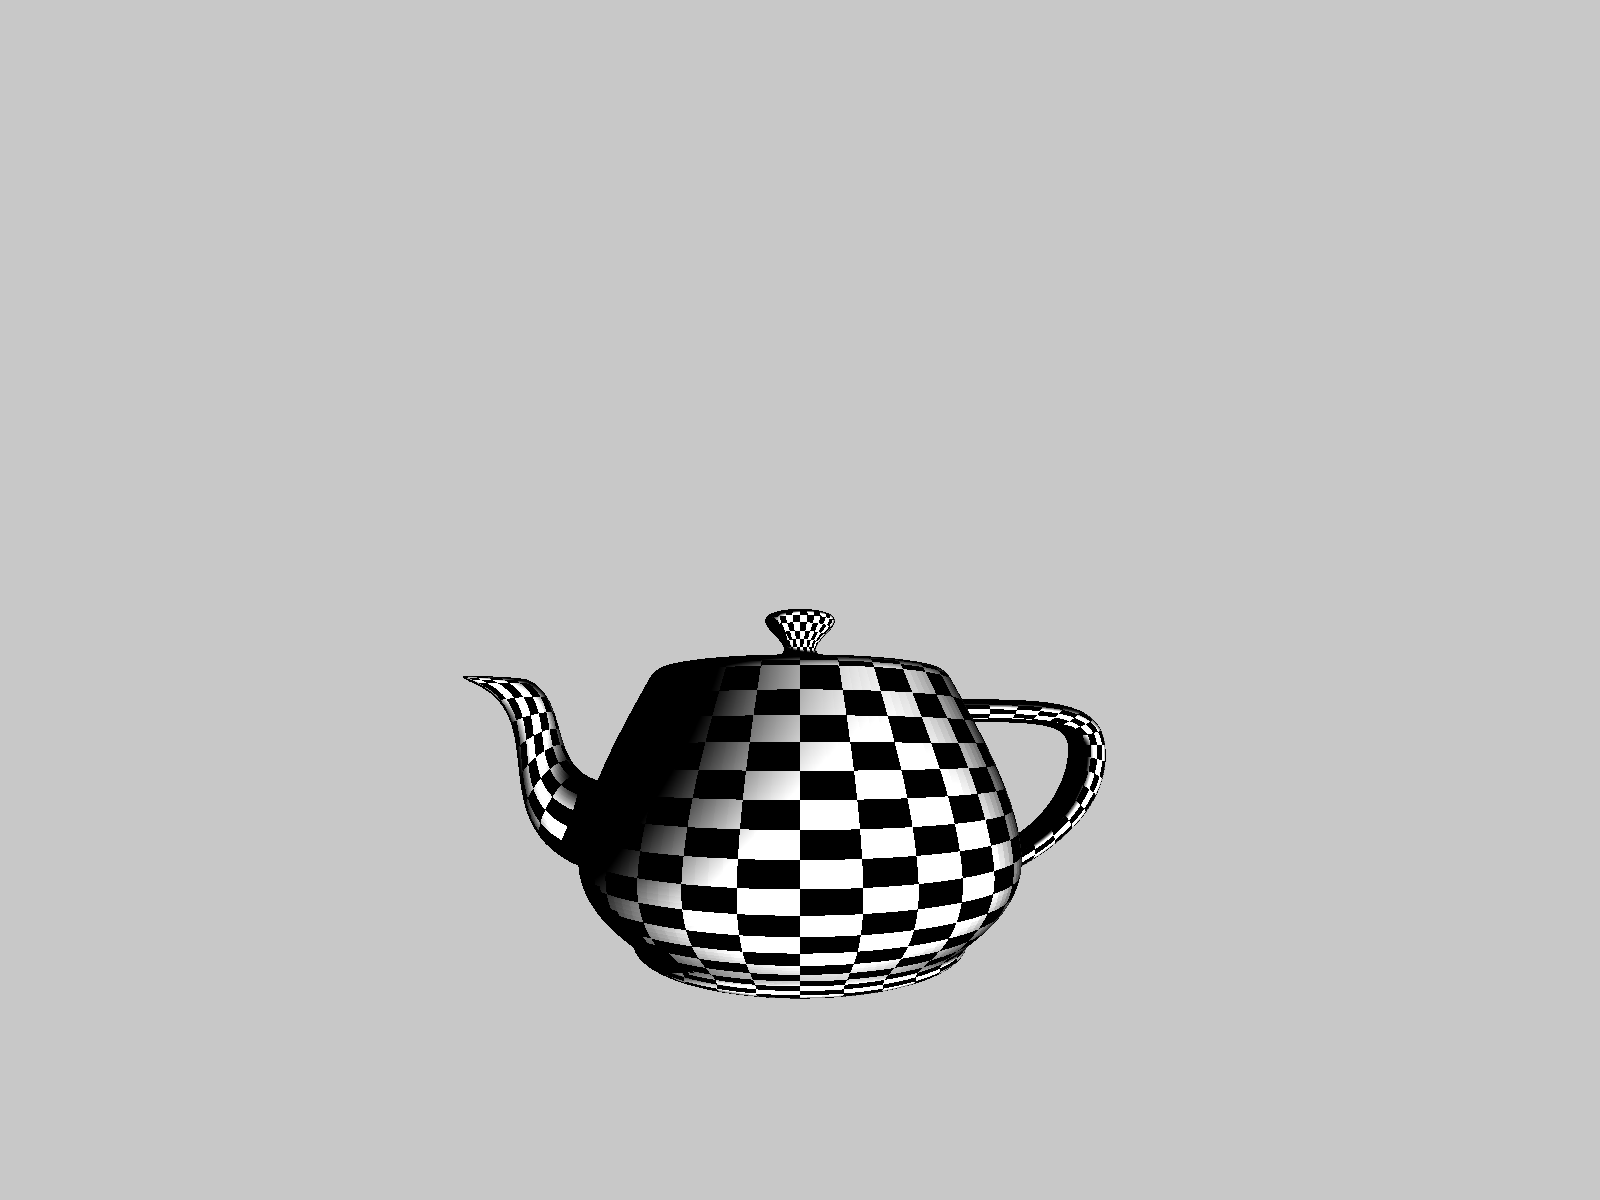
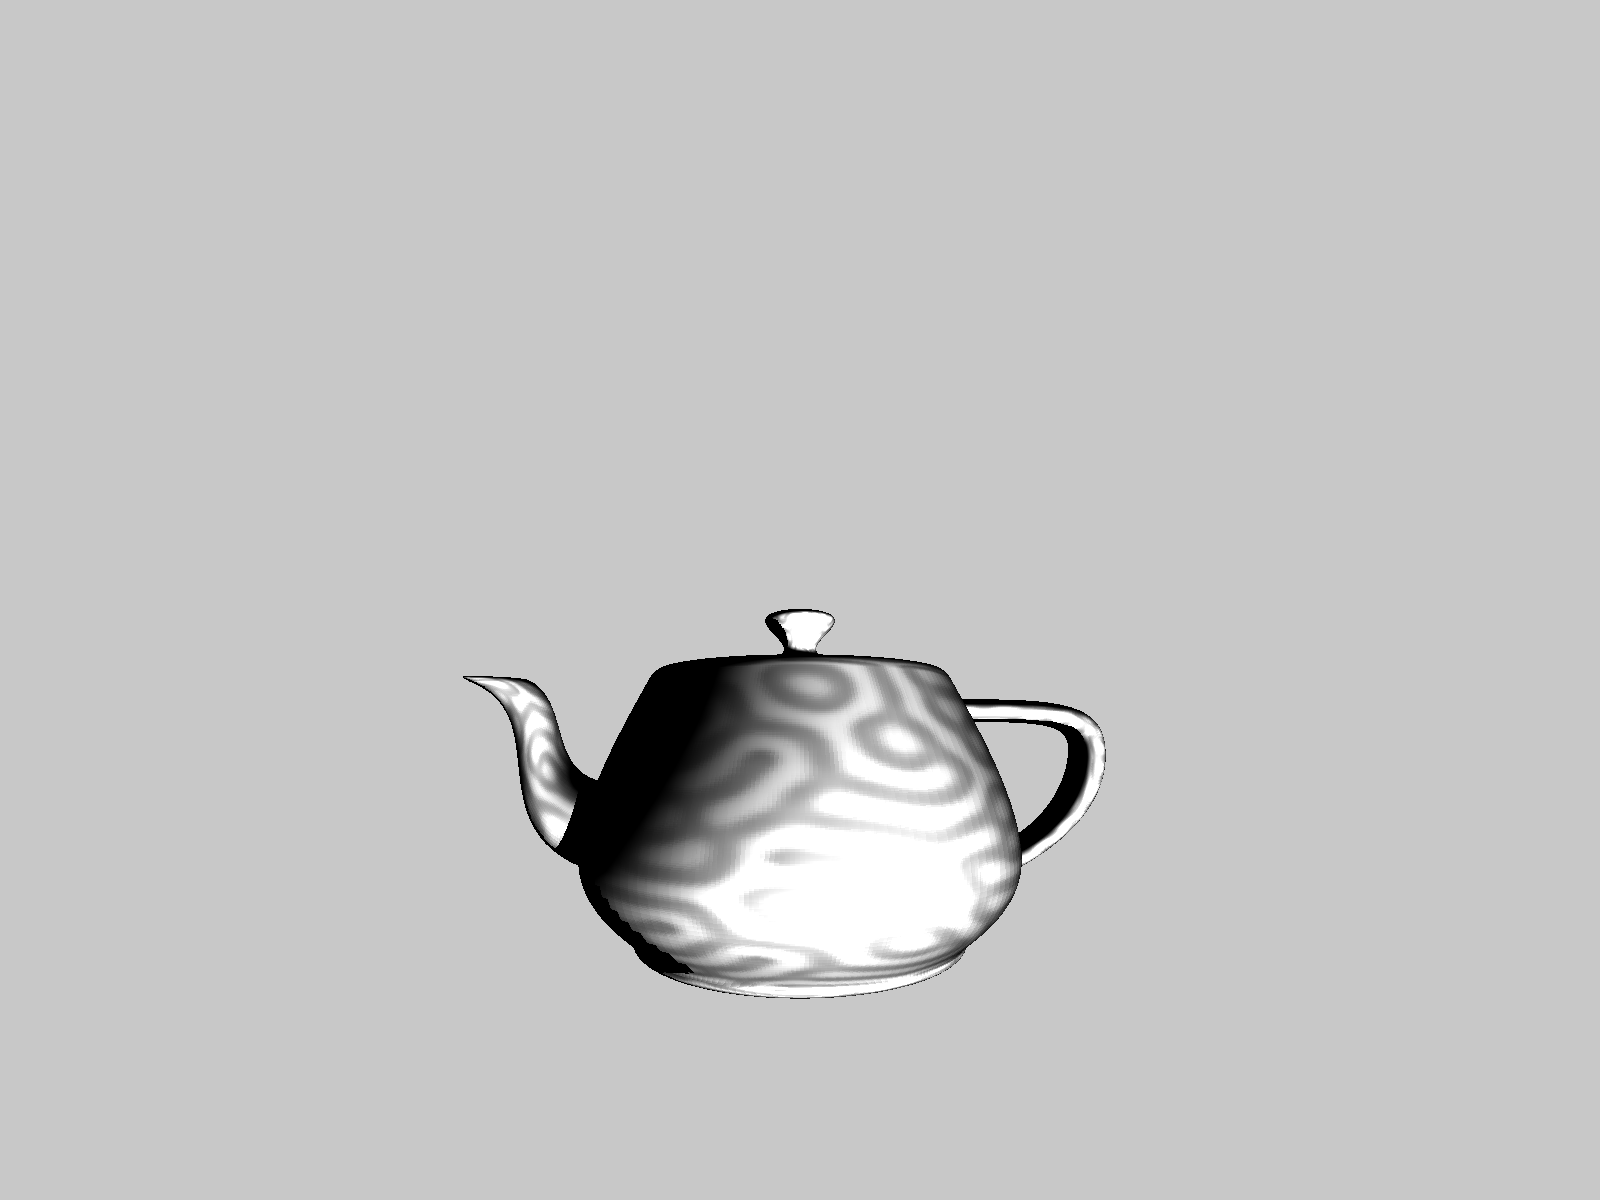
gray-scott reaction-diffusion textures

Changed region(s): [[0.375, 0.4933, 0.6875, 0.8325], [0.2812, 0.555, 0.375, 0.7092]]

diff --git a/gen/textures.go b/gen/textures.go
@@ -1,0 +1,132 @@
+package gen
+
+import (
+    "image"
+    "image/color"
+    "math/rand"
+    "time"
+)
+
+type GrayScottInput struct {
+    Width int
+    Height int
+    Iterations int
+    FeedRate float64
+    KillRate float64
+    DiffRateA float64
+    DiffRateB float64
+}
+
+type coord struct {
+    X int
+    Y int
+}
+
+type ab struct {
+    A float64
+    B float64
+}
+
+const (
+    centerWeight = -1.0
+    adjacentWeight = 0.2
+    diagonalWeight = 0.05
+    seedRate = 1.0 / 50.0
+)
+
+// grid based approximation to reaction-diffusion using Gray-Scott model
+func GrayScott(input GrayScottInput) image.Image {
+    w := input.Width
+    h := input.Height
+    f := input.FeedRate
+    k := input.KillRate
+    da := input.DiffRateA
+    db := input.DiffRateB
+    m := map[coord]ab{}
+
+    // initial seeding of grid with A and B values
+    rand.Seed(time.Now().Unix())
+    for y:=0; y < h; y++ {
+        for x:=0; x < w; x++ {
+            b := 0.0
+            if rand.Float64() < seedRate {
+                b = 1.0
+            }
+            m[coord{X:x, Y:y}] = ab{A:1.0, B:b}
+        }
+    }
+
+    // do n iterations of grid update
+    for n:=0; n < input.Iterations; n++ {
+        m = grayScottLoop(m, w, h, f, k, da, db)
+    }
+
+    // collect image and return
+	img := image.NewRGBA(image.Rect(0, 0, w, h))
+    for c, ab := range m {
+        bw := uint8((1 - ab.B) * 255)
+        color := color.RGBA{bw, bw, bw, 255}
+        img.Set(c.X, c.Y, color)
+    }
+    return img
+}
+
+
+// A' = A + (D_a * La - AB^2 + f(1-A))dt
+// B' = B + (D_b * Lb + AB^2 - (k+f)B)dt
+// where D is diffusion rate and L the 2D laplacian,
+// which we will approximate with a laplacian matrix
+// dt is delta time which we will set to 1 (ignore)
+// TODO: variable f, k based on location
+func grayScottLoop(m map[coord]ab, w, h int, f, k, da, db float64) map[coord]ab {
+    newM := map[coord]ab{}
+    for c, cab := range m {
+        x, y := c.X, c.Y
+        a, b := cab.A, cab.B
+        la := a * centerWeight
+        lb := b * centerWeight
+        adjacents, diagonals := neighbours(m, x, y, w, h)
+        for _, n := range adjacents {
+            la += n.A * adjacentWeight
+            lb += n.B * adjacentWeight
+        }
+        for _, n := range diagonals {
+            la += n.A * diagonalWeight
+            lb += n.B * diagonalWeight
+        }
+        newa := a + ((da * la) - (a * b * b) + (f * (1.0-a)))
+        newb := b + ((db * lb) + (a * b * b) - ((k + f) * b))
+        newM[c] = ab{A:newa, B:newb}
+    }
+    return newM
+}
+
+func neighbours(m map[coord]ab, x, y, w, h int) ([]ab, []ab) {
+    xn := x+1
+    if xn == w {
+        xn = 0
+    }
+    xp := x-1
+    if x == 0 {
+        xp = w-1
+    }
+    yn := y+1
+    if yn == h {
+        yn = 0
+    }
+    yp := y-1
+    if y == 0 {
+        yp = h-1
+    }
+    return []ab{
+        m[coord{X:x, Y:yp}],
+        m[coord{X:x, Y:yn}],
+        m[coord{X:xp, Y:y}],
+        m[coord{X:xn, Y:y}],
+    }, []ab {
+        m[coord{X:xp, Y:yp}],
+        m[coord{X:xp, Y:yn}],
+        m[coord{X:xn, Y:yp}],
+        m[coord{X:xn, Y:yn}],
+    }
+}

diff --git a/main.go b/main.go
@@ -4,11 +4,12 @@ import (
 	"fmt"
 	"math"
 
-    //"os"
     //"image/png"
+    //"os"
 
 	m "github.com/deosjr/GRayT/src/model"
 	"github.com/deosjr/GRayT/src/render"
+    "github.com/deosjr/GenGeo/gen"
 )
 
 var (
@@ -35,8 +36,8 @@ func main() {
 	//diffMat := m.NewDiffuseMaterial(m.ConstantTexture{Color: m.NewColor(250, 0, 0)})
     //texture := m.NewUVTexture(m.TriangleMeshUVFunc)
 	//diffMat := m.NewDiffuseMaterial(texture)
-    texture := m.NewCheckerboardTexture(4, m.TriangleMeshUVFunc)
-	diffMat := m.NewDiffuseMaterial(texture)
+    //texture := m.NewCheckerboardTexture(4, m.TriangleMeshUVFunc)
+	//diffMat := m.NewDiffuseMaterial(texture)
 /*    
     existingImageFile, err := os.Open("out.png")
 	if err != nil {
@@ -50,6 +51,19 @@ func main() {
     texture := m.NewImageTexture(loadedImage, m.TriangleMeshUVFunc)
 	diffMat := m.NewDiffuseMaterial(texture)
  */   
+
+    input := gen.GrayScottInput{
+        Width: 100,
+        Height: 100,
+        Iterations: 10000,
+        FeedRate: 0.055,
+        KillRate: 0.062,
+        DiffRateA: 1.0,
+        DiffRateB: 0.5,
+    }
+    img := gen.GrayScott(input)
+    texture := m.NewImageTexture(img, m.TriangleMeshUVFunc)
+	diffMat := m.NewDiffuseMaterial(texture)
 
     patches, err := LoadPatches("teapot")
 	if err != nil {
